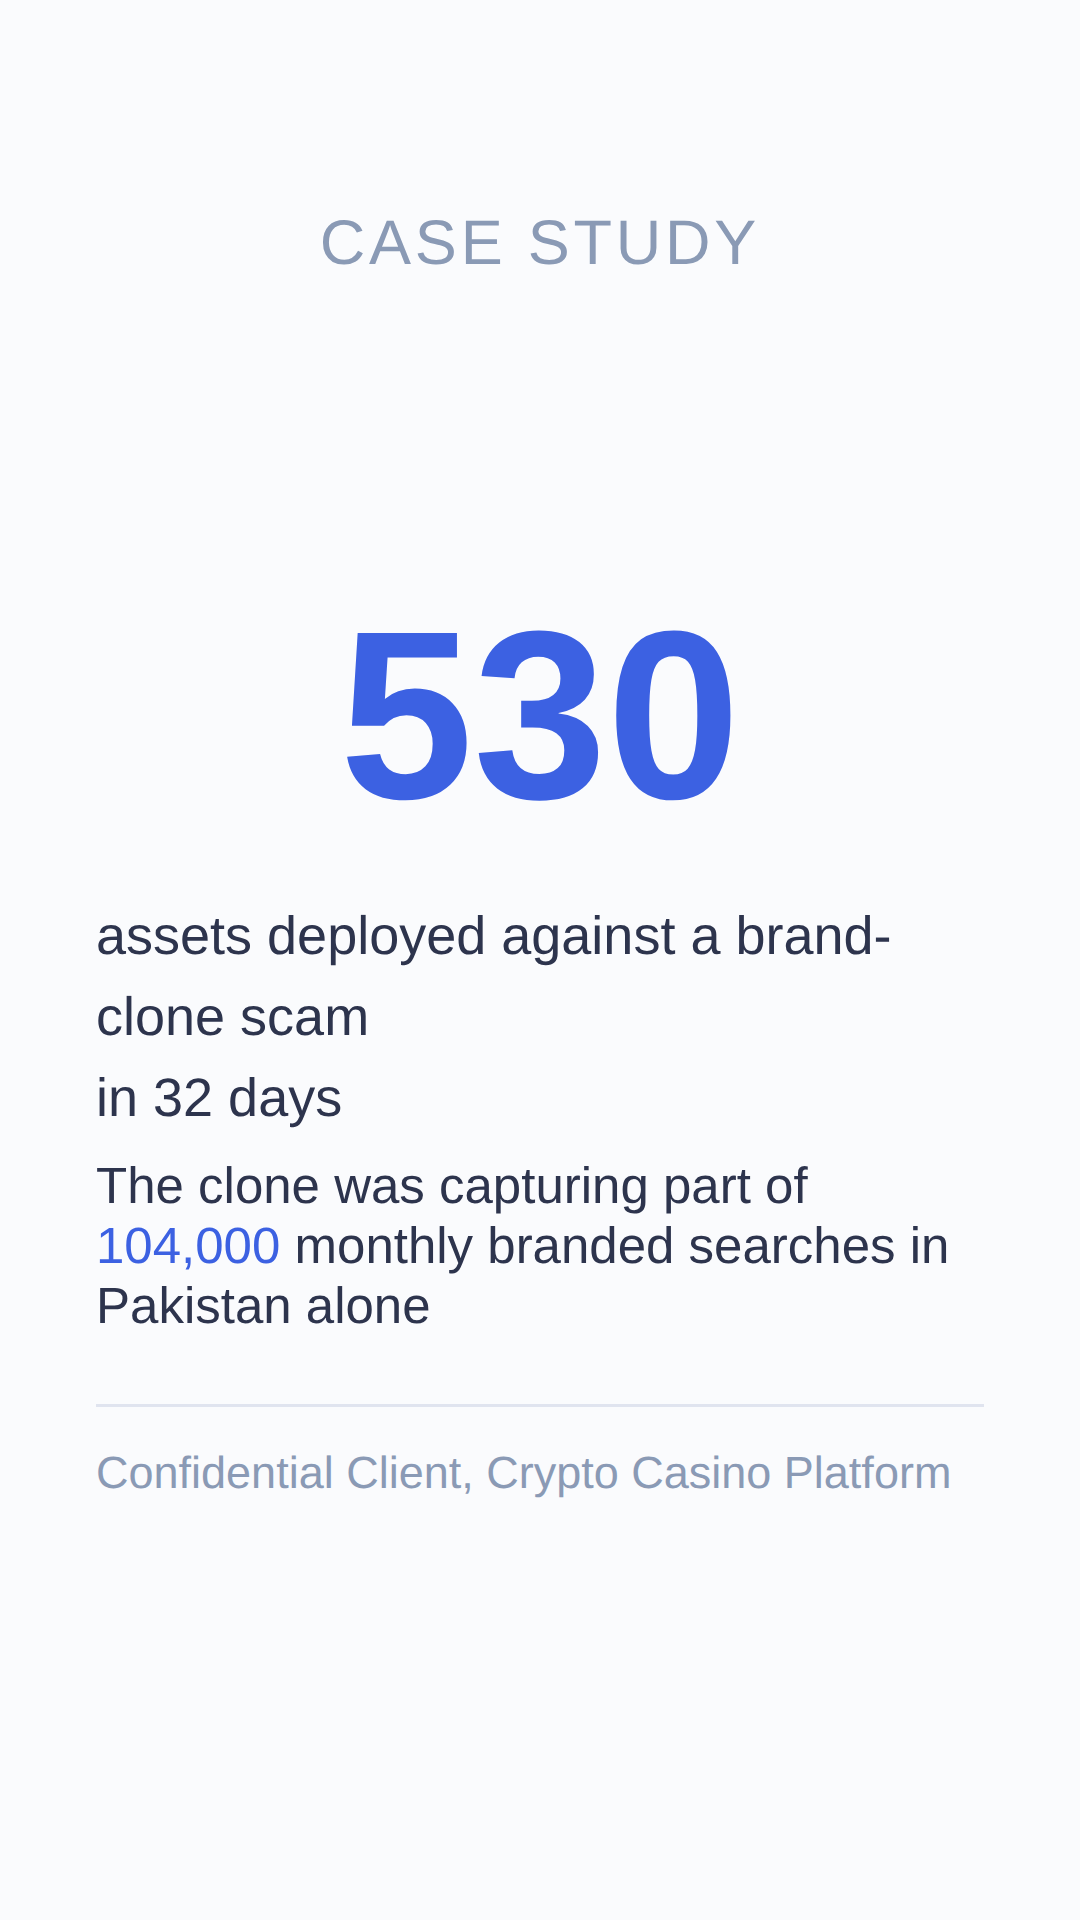
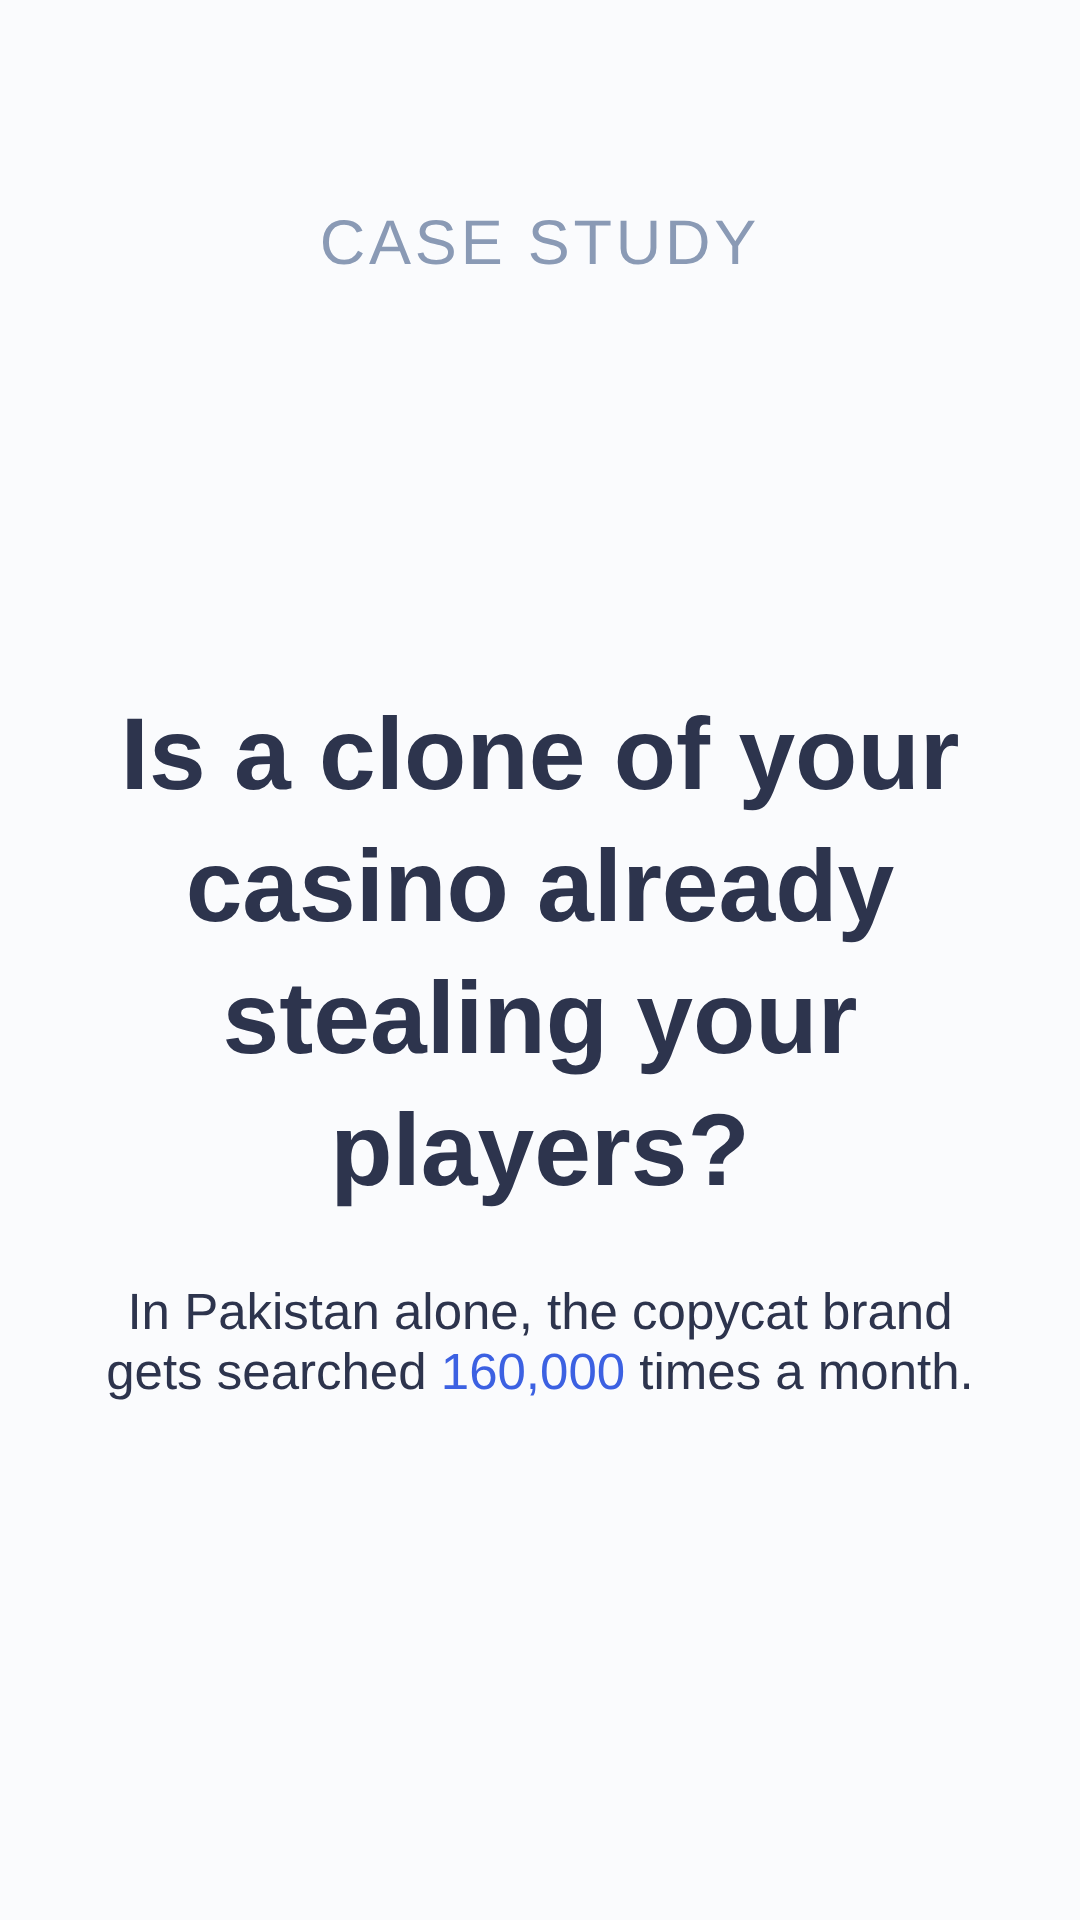
Revise brand-parasite TG story slides per feedback
Slide 1 now leads with a question hook instead of the metric callout,
and no longer shows a client attribution line. Slide 2 headlines are
full sentences instead of 1-2 word fragments, and its generic tagline
is removed.

Changed region(s): [[0.0917, 0.3125, 0.8861, 0.7812], [0.0917, 0.375, 0.1833, 0.4375]]

diff --git a/tg-stories/tg-stories-brand-parasite.html b/tg-stories/tg-stories-brand-parasite.html
@@ -34,12 +34,8 @@ body {
 <div class="slide" style="padding-top:70px;">
   <div style="text-align:center;font-size:21px;font-weight:400;color:#8A9AB5;letter-spacing:0.06em;text-transform:uppercase;margin-bottom:auto;">Case Study</div>
   <div style="flex:1;display:flex;flex-direction:column;justify-content:center;">
-    <div style="text-align:center;font-size:80px;font-weight:800;color:#3C61E2;line-height:1;margin-bottom:20px;">530</div>
-    <div style="font-size:18px;font-weight:500;color:#2D344D;line-height:1.5;">assets deployed against a brand-clone scam<br>in 32 days</div>
-    <div style="font-size:17px;font-weight:400;color:#2D344D;margin-top:6px;">The clone was capturing part of <span style="color:#3C61E2;">104,000</span> monthly branded searches in Pakistan alone</div>
-    <div style="border-top:1px solid #E0E4EF;margin-top:22px;padding-top:14px;">
-      <div style="font-size:15px;color:#8A9AB5;">Confidential Client, Crypto Casino Platform</div>
-    </div>
+    <div style="text-align:center;font-size:34px;font-weight:800;color:#2D344D;line-height:1.3;">Is a clone of your casino already stealing your players?</div>
+    <div style="text-align:center;font-size:17px;font-weight:400;color:#2D344D;margin-top:22px;">In Pakistan alone, the copycat brand gets searched <span style="color:#3C61E2;">160,000</span> times a month.</div>
   </div>
 </div>
 
@@ -47,9 +43,9 @@ body {
 <div class="slide" style="padding-top:70px;">
   <div style="text-align:center;font-size:21px;font-weight:400;color:#8A9AB5;letter-spacing:0.06em;text-transform:uppercase;margin-bottom:auto;">Approach</div>
   <div style="flex:1;display:flex;flex-direction:column;justify-content:center;">
-    <div style="font-size:36px;font-weight:700;color:#2D344D;line-height:1.25;">Search takedowns.</div>
-    <div style="font-size:36px;font-weight:700;color:#2D344D;line-height:1.25;">Content at scale.</div>
-    <div style="font-size:36px;font-weight:700;color:#3C61E2;line-height:1.25;">Branded-query ads.</div>
+    <div style="font-size:30px;font-weight:700;color:#2D344D;line-height:1.3;">Every fake listing was reported and removed.</div>
+    <div style="font-size:30px;font-weight:700;color:#2D344D;line-height:1.3;margin-top:14px;">Content answered the clone at every turn.</div>
+    <div style="font-size:30px;font-weight:700;color:#3C61E2;line-height:1.3;margin-top:14px;">Ads intercepted the search before the click.</div>
 
     <div style="margin-top:32px;display:flex;flex-direction:column;gap:13px;">
       <div style="display:flex;align-items:center;gap:10px;">
@@ -64,10 +60,6 @@ body {
         <div style="width:8px;height:8px;border-radius:50%;background:#3C61E2;flex-shrink:0;"></div>
         <span style="font-size:15px;font-weight:500;color:#2D344D;">Ads placed above the clone's own site</span>
       </div>
-    </div>
-
-    <div style="border-top:1px solid #E0E4EF;margin-top:28px;padding-top:16px;font-size:14px;color:#8A9AB5;line-height:1.65;">
-      A search for the clone's name now surfaces its broken payouts on the first screen.
     </div>
   </div>
 </div>
